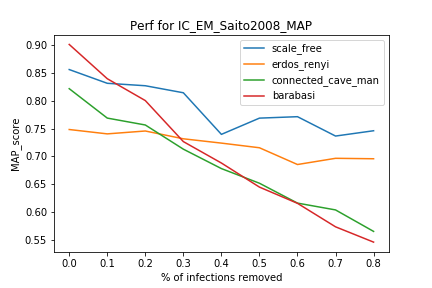
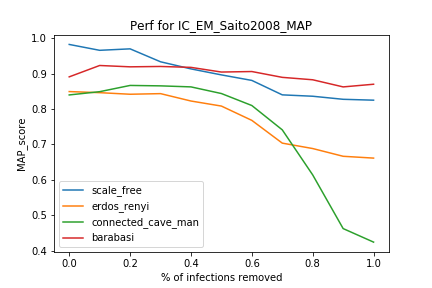
Update Readme

diff --git a/README.md b/README.md
@@ -17,21 +17,16 @@ Les longueurs des cascades ont les distributions suivantes : <br>
 
 ### IC_Sait_EM testing
 
-|    MEAN FIT TIME    |   scale_free |   erdos_renyi |   connected_cave_man |   barabasi |
+|          MSE        |   scale_free |   erdos_renyi |   connected_cave_man |   barabasi |
 |:--------------------|-------------:|--------------:|---------------------:|-----------:|
-| IC_EM_Saito2008     |      1.01506 |       1.5979  |              1.25244 |    1.85783 |
-| IC_EM_NotContiguous |      1.46755 |       2.44111 |              2.69287 |    2.51031 |
+| IC_EM_Saito2008     |   0.00172863 |    0.0018261  |           0.00520663 |  0.0142106 |
+| IC_EM_NotContiguous |   0.00471561 |    0.00741874 |           0.0148063  |  0.153406  |
 
-| CROSS-VAL MSE       |   scale_free |   erdos_renyi |   connected_cave_man |   barabasi |
+|           MAP       |   scale_free |   erdos_renyi |   connected_cave_man |   barabasi |
 |:--------------------|-------------:|--------------:|---------------------:|-----------:|
-| IC_EM_Saito2008     |   0.00386806 |    0.00309486 |            0.0119716 |  0.0138163 |
-| IC_EM_NotContiguous |   0.0113844  |    0.0120637  |            0.0170322 |  0.144018  |
-
-| CROSS-VAL MAP       |   scale_free |   erdos_renyi |   connected_cave_man |   barabasi |
-|:--------------------|-------------:|--------------:|---------------------:|-----------:|
-| IC_EM_Saito2008     |     0.855878 |      0.748226 |             0.82153  |   0.900948 |
-| IC_EM_NotContiguous |     0.799674 |      0.512732 |             0.630554 |   0.682687 |
-| original            |     0.958159 |      0.903962 |             0.924522 |   0.944376 |
+| IC_EM_Saito2008     |     0.982853 |      0.849562 |             0.840047 |   0.891198 |
+| IC_EM_NotContiguous |     0.979134 |      0.656865 |             0.726627 |   0.71513  |
+| original            |     0.980544 |      0.905014 |             0.933889 |   0.951407 |
 
 ### Missing user testing
 

diff --git a/IC_SAITO/data/eval/MAP.md b/IC_SAITO/data/eval/MAP.md
@@ -1,5 +1,5 @@
 |                     |   scale_free |   erdos_renyi |   connected_cave_man |   barabasi |
 |:--------------------|-------------:|--------------:|---------------------:|-----------:|
-| IC_EM_Saito2008     |     0.855878 |      0.748226 |             0.82153  |   0.900948 |
-| IC_EM_NotContiguous |     0.799674 |      0.512732 |             0.630554 |   0.682687 |
-| original            |     0.958159 |      0.903962 |             0.924522 |   0.944376 |
+| IC_EM_Saito2008     |     0.982853 |      0.849562 |             0.840047 |   0.891198 |
+| IC_EM_NotContiguous |     0.979134 |      0.656865 |             0.726627 |   0.71513  |
+| original            |     0.980544 |      0.905014 |             0.933889 |   0.951407 |

diff --git a/IC_SAITO/data/eval/MSE.md b/IC_SAITO/data/eval/MSE.md
@@ -1,4 +1,4 @@
 |                     |   scale_free |   erdos_renyi |   connected_cave_man |   barabasi |
 |:--------------------|-------------:|--------------:|---------------------:|-----------:|
-| IC_EM_Saito2008     |   0.00386806 |    0.00309486 |            0.0119716 |  0.0138163 |
-| IC_EM_NotContiguous |   0.0113844  |    0.0120637  |            0.0170322 |  0.144018  |
+| IC_EM_Saito2008     |   0.00172863 |    0.0018261  |           0.00520663 |  0.0142106 |
+| IC_EM_NotContiguous |   0.00471561 |    0.00741874 |           0.0148063  |  0.153406  |

diff --git a/IC_SAITO/data/eval/fit_time.md b/IC_SAITO/data/eval/fit_time.md
@@ -1,4 +1,4 @@
 |                     |   scale_free |   erdos_renyi |   connected_cave_man |   barabasi |
 |:--------------------|-------------:|--------------:|---------------------:|-----------:|
-| IC_EM_Saito2008     |      1.01506 |       1.5979  |              1.25244 |    1.85783 |
-| IC_EM_NotContiguous |      1.46755 |       2.44111 |              2.69287 |    2.51031 |
+| IC_EM_Saito2008     |      3.39858 |       11.9802 |              21.0049 |    18.9188 |
+| IC_EM_NotContiguous |      2.781   |       28.3492 |              37.252  |    15.0501 |
